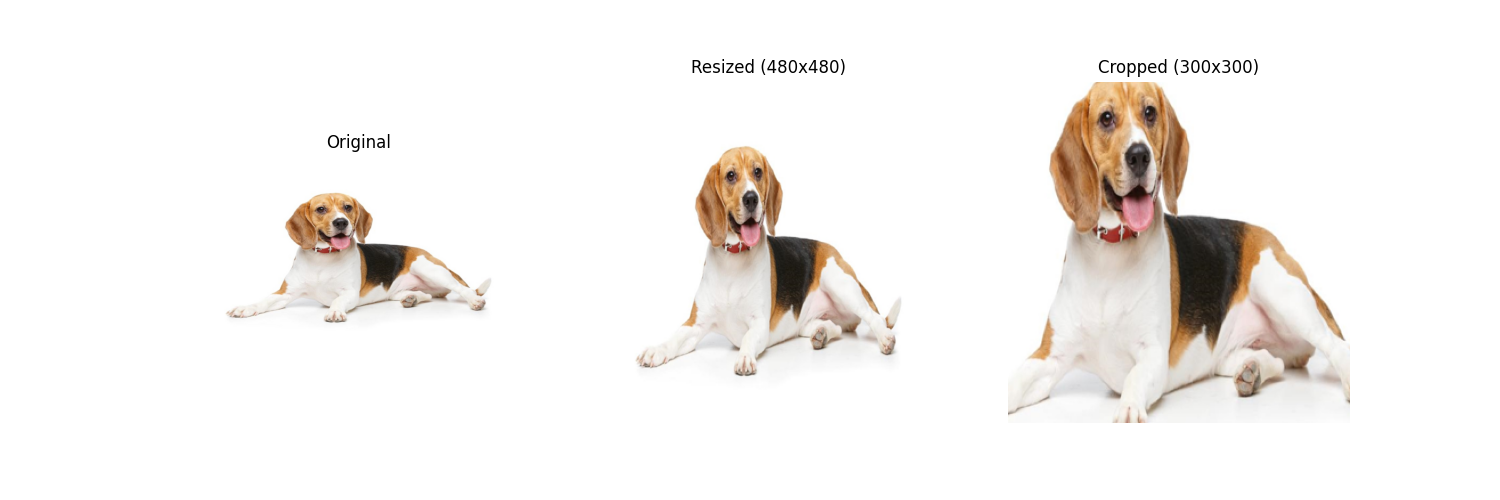
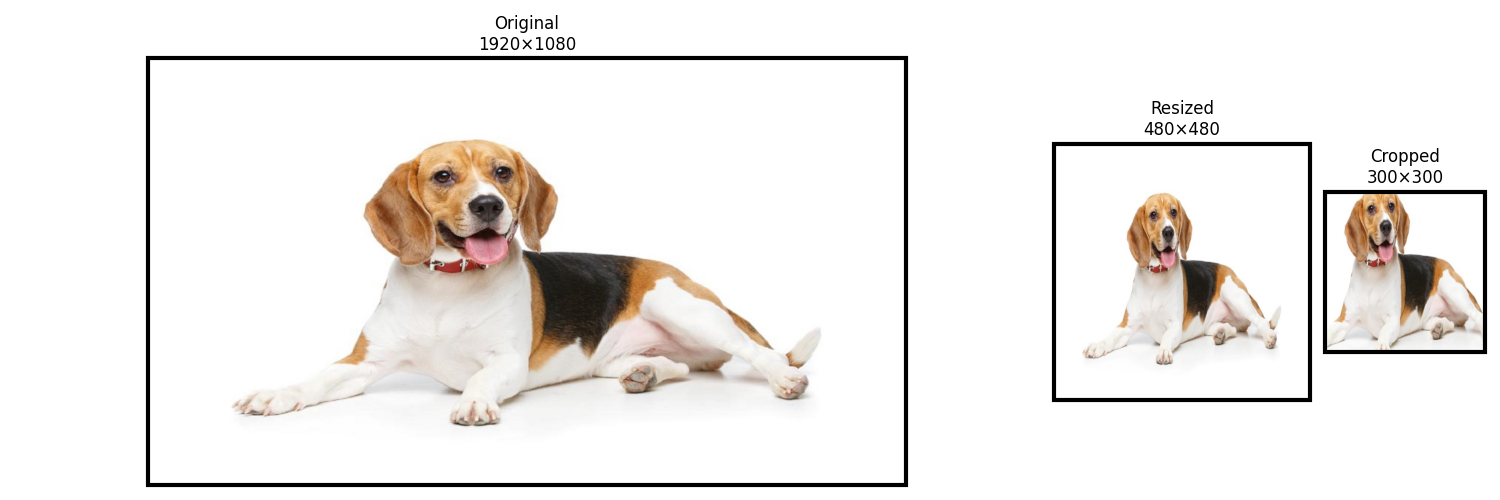
文档走读排查问题修改

diff --git a/docs/zh/05_api/adapter.md b/docs/zh/05_api/adapter.md
@@ -18,22 +18,22 @@
 
 ```python
 def __init__(
-        self,
-        do_resize: bool = True,
-        size: Dict[str, int] = None,
-        resample: Resampling = Resampling.BICUBIC,
-        do_rescale: bool = True,
-        rescale_factor: Union[int, float] = 1 / 255,
-        do_normalize: bool = True,
-        image_mean: Optional[Union[float, List[float]]] = None,
-        image_std: Optional[Union[float, List[float]]] = None,
-        do_convert_rgb: bool = True,
-        min_pixels: Optional[int] = 56 * 56,
-        max_pixels: Optional[int] = 28 * 28 * 1280,
-        patch_size: int = 14,
-        temporal_patch_size: int = 2,
-        merge_size: int = 2,
-        **kwargs,
+    self,
+    do_resize: bool = True,
+    size: Dict[str, int] = None,
+    resample: Resampling = Resampling.BICUBIC,
+    do_rescale: bool = True,
+    rescale_factor: Union[int, float] = 1 / 255,
+    do_normalize: bool = True,
+    image_mean: Optional[Union[float, List[float]]] = None,
+    image_std: Optional[Union[float, List[float]]] = None,
+    do_convert_rgb: bool = True,
+    min_pixels: Optional[int] = 56 * 56,
+    max_pixels: Optional[int] = 28 * 28 * 1280,
+    patch_size: int = 14,
+    temporal_patch_size: int = 2,
+    merge_size: int = 2,
+    **kwargs,
 ) -> None:
 ```
 
@@ -77,13 +77,13 @@ def __init__(
 ```python
 from mm import MultimodalQwen2VLImageProcessor
 processor = MultimodalQwen2VLImageProcessor(
-min_pixels=3136,
-max_pixels=518400,
-patch_size=14,
-temporal_patch_size=2,
-merge_size=2,
-image_mean=[0.48145466, 0.4578275, 0.40821073],
-image_std=[0.26862954, 0.26130258, 0.27577711]
+    min_pixels=3136,
+    max_pixels=518400,
+    patch_size=14,
+    temporal_patch_size=2,
+    merge_size=2,
+    image_mean=[0.48145466, 0.4578275, 0.40821073],
+    image_std=[0.26862954, 0.26130258, 0.27577711]
 )
 ```
 
@@ -225,12 +225,12 @@ result = processor.preprocess(images=[], videos=video)
 
 ```python
 def preprocess_image(
-            image: Union[PIL.Image.Image, Image],
-            input_size: int,
-            min_num: int,
-            max_num: int,
-            use_thumbnail: bool,
-    ) -> torch.Tensor:
+    image: Union[PIL.Image.Image, Image],
+    input_size: int,
+    min_num: int,
+    max_num: int,
+    use_thumbnail: bool,
+) -> torch.Tensor:
 ```
 
 **参数说明**

diff --git a/docs/zh/04_user_guide/user_guide.md b/docs/zh/04_user_guide/user_guide.md
@@ -30,23 +30,30 @@ cropped_np = dog_cropped_img.numpy()  # 将裁剪的图像转化为 NumPy 数组
 original_dog = dog_img.numpy()  # 将构造的原图像转化为 NumPy 数组，方便后续对其进行展示
 
 # 以下为展示图像代码
-plt.figure(figsize=(15, 5))
+h_orig, w_orig = original_dog.shape[:2]
+h_resize, w_resize = resized_np.shape[:2]
+h_crop, w_crop = cropped_np.shape[:2]
 
-plt.subplot(1, 3, 1)
-plt.title("Original")
-plt.imshow(original_dog)
-plt.axis("off")
+fig, axes = plt.subplots(1, 3, figsize=(15, 5),
+                         gridspec_kw={'width_ratios': [w_orig, w_resize, w_crop]})
 
-plt.subplot(1, 3, 2)
-plt.title("Resized (480x480)")
-plt.imshow(resized_np)
-plt.axis("off")
+# 准备数据
+images = [original_dog, resized_np, cropped_np]
+titles = [
+    f"Original\n{w_orig}×{h_orig}",
+    f"Resized\n{w_resize}×{h_resize}",
+    f"Cropped\n{w_crop}×{h_crop}"
+]
 
-plt.subplot(1, 3, 3)
-plt.title("Cropped (300x300)")
-plt.imshow(cropped_np)
-plt.axis("off")
+# 循环显示
+for ax, img, title in zip(axes, images, titles):
+    ax.imshow(img)
+    ax.set_title(title)
+    ax.axis('off')
+    rect = Rectangle((0, 0), 1, 1, transform=ax.transAxes, linewidth=3, edgecolor='black', facecolor='none', clip_on=False)
+    ax.add_patch(rect)
 
+plt.tight_layout()
 plt.show()
 ```
 

diff --git a/docs/zh/02_quickstart/quickstart.md b/docs/zh/02_quickstart/quickstart.md
@@ -8,7 +8,7 @@ Multimodal SDK 提供多模态预处理加速能力，包括图像解码、resiz
 
 开始之前，请确认：
 
-- **硬件**：Atlas 800I A2 推理服务器，详见 [简介 - 支持的硬件](../01_introduction/01_introduction.md#支持的硬件和操作系统)
+- **硬件**：Atlas 800I A2 推理服务器，详见 [支持的硬件](../01_introduction/01_introduction.md#支持的硬件和操作系统)
 - **Docker**：已安装 Docker，且当前用户可运行容器
 - **测试图片**：镜像内已提供 `/data/test.jpg`，无需额外挂载测试图片目录。
 
@@ -34,7 +34,7 @@ Multimodal SDK 提供多模态预处理加速能力，包括图像解码、resiz
 
    | 变量 | 含义 | 示例值 |
    |------|------|--------|
-   | `{version}` | Multimodal SDK 版本 | `26.0.0` |
+   | `{version}` | Multimodal SDK 版本 | `26.1.0` |
    | `{os}` | 基础操作系统 | `ubuntu22.04` / `openeuler24.03` |
    | `{python}` | Python 版本 | `py3.11` |
 
@@ -45,12 +45,12 @@ Multimodal SDK 提供多模态预处理加速能力，包括图像解码、resiz
        multimodalsdk:${TAG}
    ```
 
-   以 26.0.0 版本、Ubuntu 22.04、Python 3.11 为例：
+   以 26.1.0 版本、Ubuntu 22.04、Python 3.11 为例：
 
    ```bash
-   docker pull swr.cn-south-1.myhuaweicloud.com/ascendhub/multimodalsdk:26.0.0-910b-ubuntu22.04-py3.11-aarch64
-   docker tag swr.cn-south-1.myhuaweicloud.com/ascendhub/multimodalsdk:26.0.0-910b-ubuntu22.04-py3.11-aarch64 \
-       multimodalsdk:26.0.0-910b-ubuntu22.04-py3.11-aarch64
+   docker pull swr.cn-south-1.myhuaweicloud.com/ascendhub/multimodalsdk:26.1.0-910b-ubuntu22.04-py3.11-aarch64
+   docker tag swr.cn-south-1.myhuaweicloud.com/ascendhub/multimodalsdk:26.1.0-910b-ubuntu22.04-py3.11-aarch64 \
+       multimodalsdk:26.1.0-910b-ubuntu22.04-py3.11-aarch64
    ```
 
 ## 步骤 2：启动容器
@@ -80,7 +80,7 @@ docker run \
     -v /usr/local/Ascend/driver/lib64:/usr/local/Ascend/driver/lib64 \
     -v /usr/local/Ascend/driver/version.info:/usr/local/Ascend/driver/version.info \
     -v /etc/ascend_install.info:/etc/ascend_install.info \
-    -itd multimodalsdk:26.0.0-910b-ubuntu22.04-py3.11-aarch64 bash
+    -itd multimodalsdk:26.1.0-910b-ubuntu22.04-py3.11-aarch64 bash
 
 docker ps -a | grep multimodal_container
 ```
@@ -95,7 +95,7 @@ docker exec -it multimodal_container bash
 
 > [!NOTE] 说明
 >
-> 使用 `MULTIMODAL_SDK_HOME` 环境变量表示 Multimodal SDK 安装路径，默认值为 `/usr/local/multimodal`。根据镜像版本，该路径可能不同。
+> 使用 `MULTIMODAL_SDK_HOME` 环境变量表示 Multimodal SDK 安装路径，默认值为 `/usr/local/multimodal`。
 
 ```bash
 export MULTIMODAL_SDK_HOME="/usr/local/multimodal"
@@ -107,7 +107,7 @@ source ${MULTIMODAL_SDK_HOME}/script/set_env.sh
 如果镜像内未预置图片 `/data/test.jpg`，下载测试图片到容器内，下载命令如下：
 
 ```bash
-mkdir /data
+mkdir -p /data
 wget --tries=3 --timeout=30 --waitretry=5 -O /data/test.jpg https://raw.gitcode.com/Ascend/MultimodalSDK/blobs/f1f648b7a8b8a67c7509b3425a89f743bbf59563/dog_1920_1080.jpg
 ```
 

diff --git a/CONTRIBUTING.md b/CONTRIBUTING.md
@@ -22,7 +22,6 @@
 
 您可以通过多种方式支持本项目：
 
-- [领取社区任务](https://www.hiascend.com/developer/activities/details/5dbf59b2dce14f91afb157f5a52f332d#tab0)
 - 通过 [Issues](https://gitcode.com/Ascend/MultimodalSDK/issues) 反馈 Bug 或提出功能建议
 - 改进或扩展文档
 - 审查 Pull Request 并协助其他贡献者
@@ -47,7 +46,8 @@
 4. **代码开发**：请遵循代码规范。
 5. **开发构建验证**：
 
-   环境准备请参阅[安装指南](docs/zh/03_installation_guide/installation_guide.md)（Atlas 800I A2、Ubuntu 22.04 aarch64、CANN 9.0.0）。clone 后直接执行 `bash build_script/build_merge.sh`，脚本会自动下载并准备全部编译依赖（opensource、makeself、pybind11、googletest 等）：
+   环境准备请参阅[安装指南](docs/zh/03_installation_guide/installation_guide.md)。
+   下载代码后直接执行 `bash build_script/build_merge.sh`，脚本会自动下载并准备全部编译依赖：
 
    ```bash
    source /usr/local/Ascend/ascend-toolkit/set_env.sh
@@ -72,6 +72,6 @@
    cd MultimodalSDK/build_script && ./build.sh
    ```
 
-6. **本地门禁检查**：请先运行 pre-commit 进行本地检查，确保代码符合规范。
+6. **本地门禁检查**：请先运行 [pre-commit](https://gitcode.com/Ascend/community/blob/master/docs/contributor/pre-commit-guide.md) 进行本地检查，确保代码符合规范。
 7. **提交 Pull Request**：提交 PR 并等待代码审查。
 8. **社区评审**：如果涉及 patch、头文件宏、API 接口等变更，需提交社区评审。

diff --git a/docs/zh/05_api/README.md b/docs/zh/05_api/README.md
@@ -61,9 +61,9 @@ Tensor 数据排布格式枚举类
 
 | 属性名 | 说明 |
 | -- | -- |
-| TensorFormat.ND | ND 格式。表示通用 N 维数组。 |
-| TensorFormat.NHWC | NHWC 格式。表示张量排布为 Batch, Height, Width, Channel。 |
-| TensorFormat.NCHW | NCHW 格式。表示张量排布为 Batch, Channel, Height, Width。 |
+| TensorFormat.ND | ND 格式，表示通用 N 维数组。 |
+| TensorFormat.NHWC | NHWC 格式，表示张量排布为 Batch, Height, Width, Channel。 |
+| TensorFormat.NCHW | NCHW 格式，表示张量排布为 Batch, Channel, Height, Width。 |
 
 ### ImageFormat
 

diff --git a/docs/zh/01_introduction/00_background.md b/docs/zh/01_introduction/00_background.md
@@ -54,7 +54,7 @@
 | Pillow (PIL) | Python 图像处理库，Multimodal SDK 支持与 PIL Image 相互转换 |
 | PyTorch | 深度学习框架，Multimodal SDK 支持与 torch.Tensor 相互转换 |
 | NumPy | Python 科学计算库，Multimodal SDK 支持与 numpy.ndarray 相互转换 |
-| transformers | Hugging Face 的预训练模型库，Multimodal SDK 的依赖之一 |
+| transformers | HuggingFace 的预训练模型库 |
 
 ## 必备知识
 
@@ -65,7 +65,7 @@
 Multimodal SDK 主要处理以下模态数据：
 
 - **图像**：支持 jpg/jpeg 格式，宽高范围 [10, 8192]
-- **视频**：支持 mp4 格式，分辨率范围 480P-4K
+- **视频**：支持 mp4 格式，分辨率范围 [480, 4096]
 - **音频**：支持 wav 格式，采样率范围 [1, 64000]
 
 #### 数据流向

diff --git a/docs/zh/06_references/faq.md b/docs/zh/06_references/faq.md
@@ -51,7 +51,7 @@ source /home/work/Mind_SDK/multimodal/script/set_env.sh
 
 **处理**：
 
-1. 确认已安装 Ascend HDK 26.0.RC1 及 CANN 9.0.0（或兼容补丁版本）。
+1. 确认已安装 Ascend HDK 26.1.0 及 CANN 9.1.0（或兼容补丁版本）。
 2. 加载 CANN 环境变量：`source /usr/local/Ascend/ascend-toolkit/set_env.sh`（路径以实际安装为准）。
 3. 重新执行 `npu-smi info`；若仍失败，重启宿主机后重试。
 
@@ -65,7 +65,7 @@ source /home/work/Mind_SDK/multimodal/script/set_env.sh
 pip3 install transformers==4.51.3 pillow==11.2.1 numpy==1.26.4
 ```
 
-`torch` 与 `torch-npu` 需按 CANN 9.0.0 配套表安装，请参阅 [安装部署 - 其他依赖](../03_installation_guide/installation_guide.md#其他依赖)。
+`torch` 与 `torch-npu` 需按 `vllm-ascend==v0.8.5rc1` 配套表安装，请参阅 [安装部署 - 其他依赖](../03_installation_guide/installation_guide.md#其他依赖)。
 
 ### Q: 已安装 lzma 模块，调用 torchvision 仍提示缺少 lzma？
 

diff --git a/docker/OVERVIEW.md b/docker/OVERVIEW.md
@@ -64,7 +64,7 @@ docker build -t {your_repo}/multimodal:latest -f Dockerfile.<chip_series>.<os> .
 ```bash
 docker run \
     --name multimodal_container \
-    --device /dev/davinci1 \
+    --device /dev/davinci0 \
     --device /dev/davinci_manager \
     --device /dev/devmm_svm \
     --device /dev/hisi_hdc \

diff --git a/docs/rfc/26.1.0/自动寻优与多尺度采样技术方案设计(RFC).md b/docs/rfc/26.1.0/自动寻优与多尺度采样技术方案设计(RFC).md
@@ -507,4 +507,4 @@ VRS -->> U: VideoRagInferenceResult
 
 附录
 
-- **[《Multimodal SDK 26.0.0 用户指南》](https://gitcode.com/Ascend/MultimodalSDK/blob/master/README.md)**
+- **[《Multimodal SDK 用户指南》](https://gitcode.com/Ascend/MultimodalSDK/blob/master/README.md)**